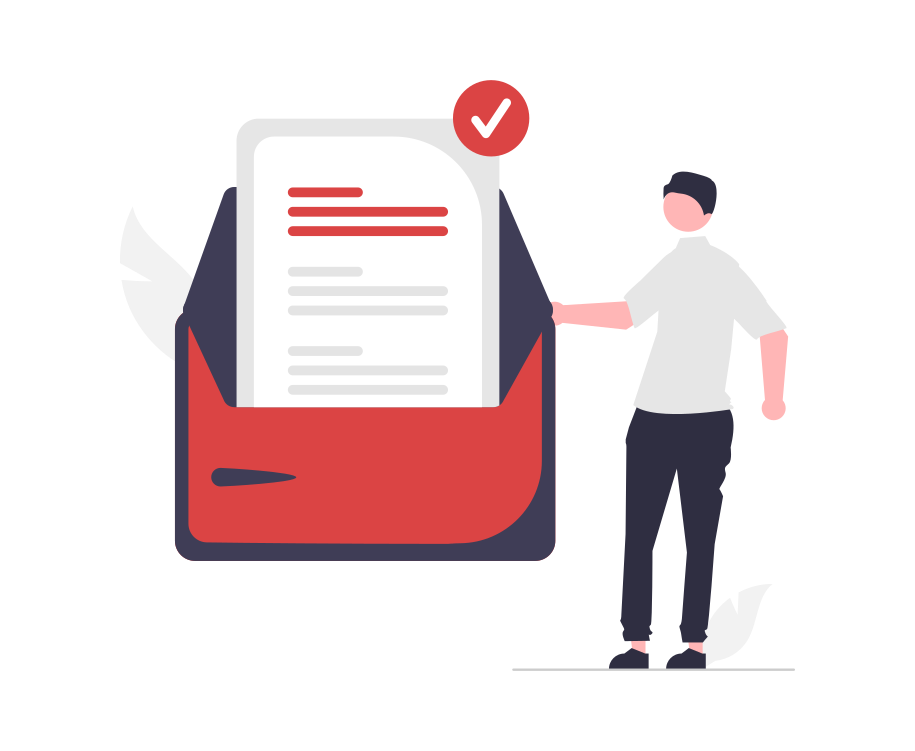
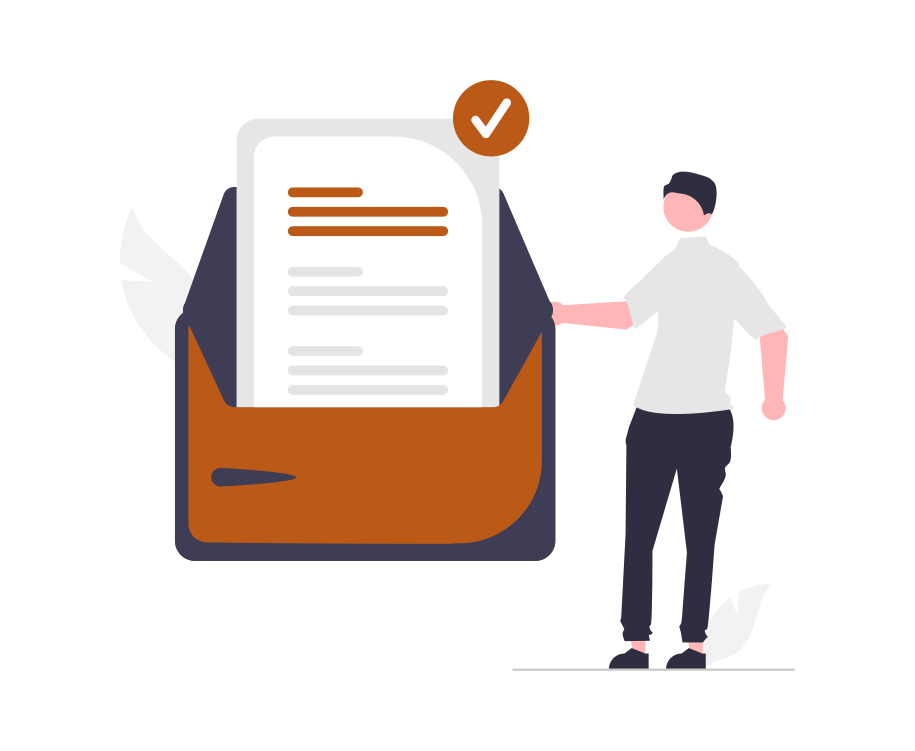
Adjusted : Coloring System

Changed region(s): [[0.1836, 0.4288, 0.612, 0.735], [0.306, 0.245, 0.4896, 0.3369], [0.4896, 0.0919, 0.5814, 0.2144]]

diff --git a/src/Components/Navbar.jsx b/src/Components/Navbar.jsx
@@ -3,8 +3,14 @@ import { Bars3Icon, XMarkIcon } from "@heroicons/react/24/outline";
 import { Avatar } from "@mui/material";
 import { useEffect } from "react";
 import { useDispatch, useSelector } from "react-redux";
-import { Link } from "react-router-dom";
+import { Link, useNavigate } from "react-router-dom";
 import { getUserProfile } from "../redux/Slices/User-Slice/UserProfile";
+import * as React from "react";
+import Button from "@mui/material/Button";
+import Menu from "@mui/material/Menu";
+import MenuItem from "@mui/material/MenuItem";
+import { logoutUser } from "../redux/Slices/Auth-Slice/LoginReducer";
+import Swal from "sweetalert2";
 function classNames(...classes) {
   return classes.filter(Boolean).join(" ");
 }
@@ -15,16 +21,49 @@ export default function Navbar({ currentTab }) {
   const { token } = useSelector((state) => state.login);
   const { profile } = useSelector((state) => state.profile);
   const dispatch = useDispatch();
+  const navigate = useNavigate();
   useEffect(() => {
     dispatch(getUserProfile({ token }));
   }, [dispatch, token]);
-  console.log(profile);
-
+  const [anchorEl, setAnchorEl] = React.useState(null);
+  const open = Boolean(anchorEl);
+  const handleClick = (event) => {
+    setAnchorEl(event.currentTarget);
+  };
+  const handleClose = () => {
+    setAnchorEl(null);
+  };
   const navigation = [
     { name: "Home", href: "/" },
     { name: "Contact", href: "/contact" },
     { name: "About", href: "/about" },
   ];
+  const handleLogout = async () => {
+    // Show loading indicator using SweetAlert2
+    Swal.fire({
+      title: "Logging out...",
+      text: "Please wait while we log you out",
+      allowOutsideClick: false,
+      allowEscapeKey: false,
+      didOpen: () => {
+        Swal.showLoading();
+      },
+    });
+
+    try {
+      await dispatch(logoutUser()).unwrap(); // Ensure the action completes
+      Swal.close(); // Close the loading modal
+      navigate("/"); // Redirect to the homepage
+    } catch (error) {
+      Swal.fire({
+        icon: "error",
+        title: "Logout Failed",
+        text: error.message || "An error occurred during logout.",
+      });
+    } finally {
+      handleClose(); // Close the dropdown menu
+    }
+  };
 
   return (
     <Disclosure as="nav" className="bg-[#F8F8F8]">
@@ -61,8 +100,8 @@ export default function Navbar({ currentTab }) {
                     aria-current={currentTab === item.name ? "page" : undefined}
                     className={classNames(
                       currentTab === item.name
-                        ? "text-[#Db4444]"
-                        : "text-black-500 hover:text-[#Db4444]",
+                        ? "text-[#BA5A16]"
+                        : "text-black-500 hover:text-[#BA5A16]",
                       "px-3 py-2 text-m font-semibold"
                     )}
                   >
@@ -77,10 +116,34 @@ export default function Navbar({ currentTab }) {
             {/* if Authinticated this will appear */}
             {isAuthenticated ? (
               <div className="flex">
-                <Link to={"/user-profile"}>
-                  {" "}
-                  <Avatar src={profile?.profileImageUrl}></Avatar>
-                </Link>
+                <div>
+                  <Button
+                    id="basic-button"
+                    aria-controls={open ? "basic-menu" : undefined}
+                    aria-haspopup="true"
+                    aria-expanded={open ? "true" : undefined}
+                    onClick={handleClick}
+                  >
+                    <Avatar src={profile?.profileImageUrl}></Avatar>
+                  </Button>
+                  <Menu
+                    id="basic-menu"
+                    anchorEl={anchorEl}
+                    open={open}
+                    onClose={handleClose}
+                    MenuListProps={{
+                      "aria-labelledby": "basic-button",
+                    }}
+                  >
+                    <MenuItem onClick={handleClose}>
+                      {" "}
+                      <Link to={"/user-profile"}>View Profile </Link>
+                    </MenuItem>
+                    <MenuItem onClick={handleClose}>
+                      <button onClick={handleLogout}>Logout</button>
+                    </MenuItem>
+                  </Menu>
+                </div>
               </div>
             ) : (
               <div
@@ -104,7 +167,7 @@ export default function Navbar({ currentTab }) {
                     className={classNames(
                       currentTab === "Auth"
                         ? "hidden"
-                        : "px-4 py-2 bg-[#Db4444] text-white text-sm font-medium rounded-md"
+                        : "px-4 py-2 bg-[#BA5A16] text-white text-sm font-medium rounded-md"
                     )}
                   >
                     Get Started for Free
@@ -127,8 +190,8 @@ export default function Navbar({ currentTab }) {
               aria-current={currentTab === item.name ? "page" : undefined}
               className={classNames(
                 currentTab === item.name
-                  ? "text-[#BF3F00]"
-                  : "text-black-500 hover:text-[#BF3F00]",
+                  ? "text-[#BA5A16]"
+                  : "text-black-500 hover:text-[#BA5A16]",
                 "block rounded-md px-3 py-2 text-base font-medium"
               )}
             >
@@ -141,7 +204,9 @@ export default function Navbar({ currentTab }) {
         {isAuthenticated ? (
           <div className="flex justify-center items-center w-full">
             <Link to={"/user-profile"}>
-            <button className="px-4 w-full py-2 bg-[#Db4444] text-white  font-medium rounded-md">User Profile </button>
+              <button className="px-4 w-full py-2 bg-[#BA5A16] text-white  font-medium rounded-md">
+                User Profile{" "}
+              </button>
             </Link>
           </div>
         ) : (
@@ -152,7 +217,7 @@ export default function Navbar({ currentTab }) {
               </button>
             </Link>
             <Link to={"/auth/register"}>
-              <button className="w-full px-4 py-2 bg-[#Db4444] text-white text-sm font-medium rounded-md">
+              <button className="w-full px-4 py-2 bg-[#BA5A16] text-white text-sm font-medium rounded-md">
                 Get Started for Free
               </button>
             </Link>

diff --git a/src/redux/Slices/Auth-Slice/LoginReducer.jsx b/src/redux/Slices/Auth-Slice/LoginReducer.jsx
@@ -29,7 +29,20 @@ export const loginUser = createAsyncThunk(
     }
   }
 );
-
+export const logoutUser = createAsyncThunk(
+  "auth/logoutUser",
+  async (_, { rejectWithValue }) => {
+    try {
+      // Clear tokens from localStorage
+      localStorage.removeItem("accessToken");
+      localStorage.removeItem("refreshToken");
+      return "Logout successful";
+    } catch (error) {
+      console.error("Logout Error:", error);
+      return rejectWithValue("Logout failed");
+    }
+  }
+);
 const loginSlice = createSlice({
   name: "login",
   initialState: {
@@ -46,8 +59,6 @@ const loginSlice = createSlice({
         state.error = null;
       })
       .addCase(loginUser.fulfilled, (state, action) => {
-        console.log("Fulfilled action:", action);
-
         state.loading = false;
         state.token = action.payload.token; // Update state with the token
         state.isAuthenticated = true; // Mark user as authenticated
@@ -55,6 +66,17 @@ const loginSlice = createSlice({
       .addCase(loginUser.rejected, (state, action) => {
         state.loading = false;
         state.error = action.payload; // Capture the error message
+      })
+      // Logout User
+      .addCase(logoutUser.fulfilled, (state) => {
+        state.token = null;
+        state.isAuthenticated = false; // Mark user as not authenticated
+        state.loading = false;
+        state.error = null;
+      })
+      .addCase(logoutUser.rejected, (state, action) => {
+        state.loading = false;
+        state.error = action.payload;
       });
   },
 });

diff --git a/src/Pages/Auth/Register.jsx b/src/Pages/Auth/Register.jsx
@@ -134,12 +134,12 @@ function Register() {
             <h2 className="text-6xl font-bold bg-gradient-to-br from-[#000000cc] to-[#BA5A16] bg-clip-text text-transparent mb-5 text-center">
               OUR ROLES
             </h2>
-            <p className="text-2xl text-center ">
+            <p className="lg:text-2xl text-lg px-3 text-center ">
               Our platform has three contributors and you can be one of them!
             </p>
           </div>
-          <div className="grid grid-cols-1 sm:grid-cols-2 lg:grid-cols-3 py-20 space-y-3 text-center">
-            <div className="reg-card-screen2 p-10 flex flex-col justify-between w-[97%]  ">
+          <div className=" grid grid-cols-1 lg:grid-cols-3 py-20 space-y-3 text-center">
+            <div className="reg-card-screen2 p-10 flex flex-col justify-center items-center w-[97%]  ">
               <div className="card-image w-full">
                 <img src={customer} alt="Customer" />
               </div>
@@ -182,7 +182,7 @@ function Register() {
         </div>
       </div>
       {/* screen 3 of register Form */}
-      <div class="container mt-20">
+      <div className="container mt-20">
         <div>
           <h2 className="text-6xl font-bold bg-gradient-to-br from-[#000000cc] to-[#BA5A16] bg-clip-text text-transparent mb-5 text-center">
             SIGN UP NOW!

diff --git a/src/Pages/Auth/ForgetPassword.jsx b/src/Pages/Auth/ForgetPassword.jsx
@@ -21,12 +21,12 @@ function ForgetPassword() {
               {/* Input is a customized Component by Me "Nader ": " */}
               <Input LabelText="Email" type="email" />
               <MainButton
-                className="bg-[#DB4444] text-white rounded-md p-3 w-44"
+                className="bg-[#BA5A16] text-white rounded-md p-3 w-44"
                 ButtonText={"Submit"}
               />
               <h6 className="space-x-2">
                 Remember your password ? 
-                <span className="text-[#DB4444]">
+                <span className="text-[#BA5A16]">
                   <Link to={"/auth/login"}>Log in</Link>
                 </span>
               </h6>

diff --git a/src/Pages/Auth/ResetPassword.jsx b/src/Pages/Auth/ResetPassword.jsx
@@ -28,7 +28,7 @@ function ResetPassword() {
               {/*  Button to updataPassword  */}
               <div className="flex justify-center">
                 <MainButton
-                  className="bg-[#DB4444] text-white rounded-md py-3 px-6"
+                  className="bg-[#BA5A16] text-white rounded-md py-3 px-6"
                   ButtonText={"Update Password"}
                 />
               </div>
